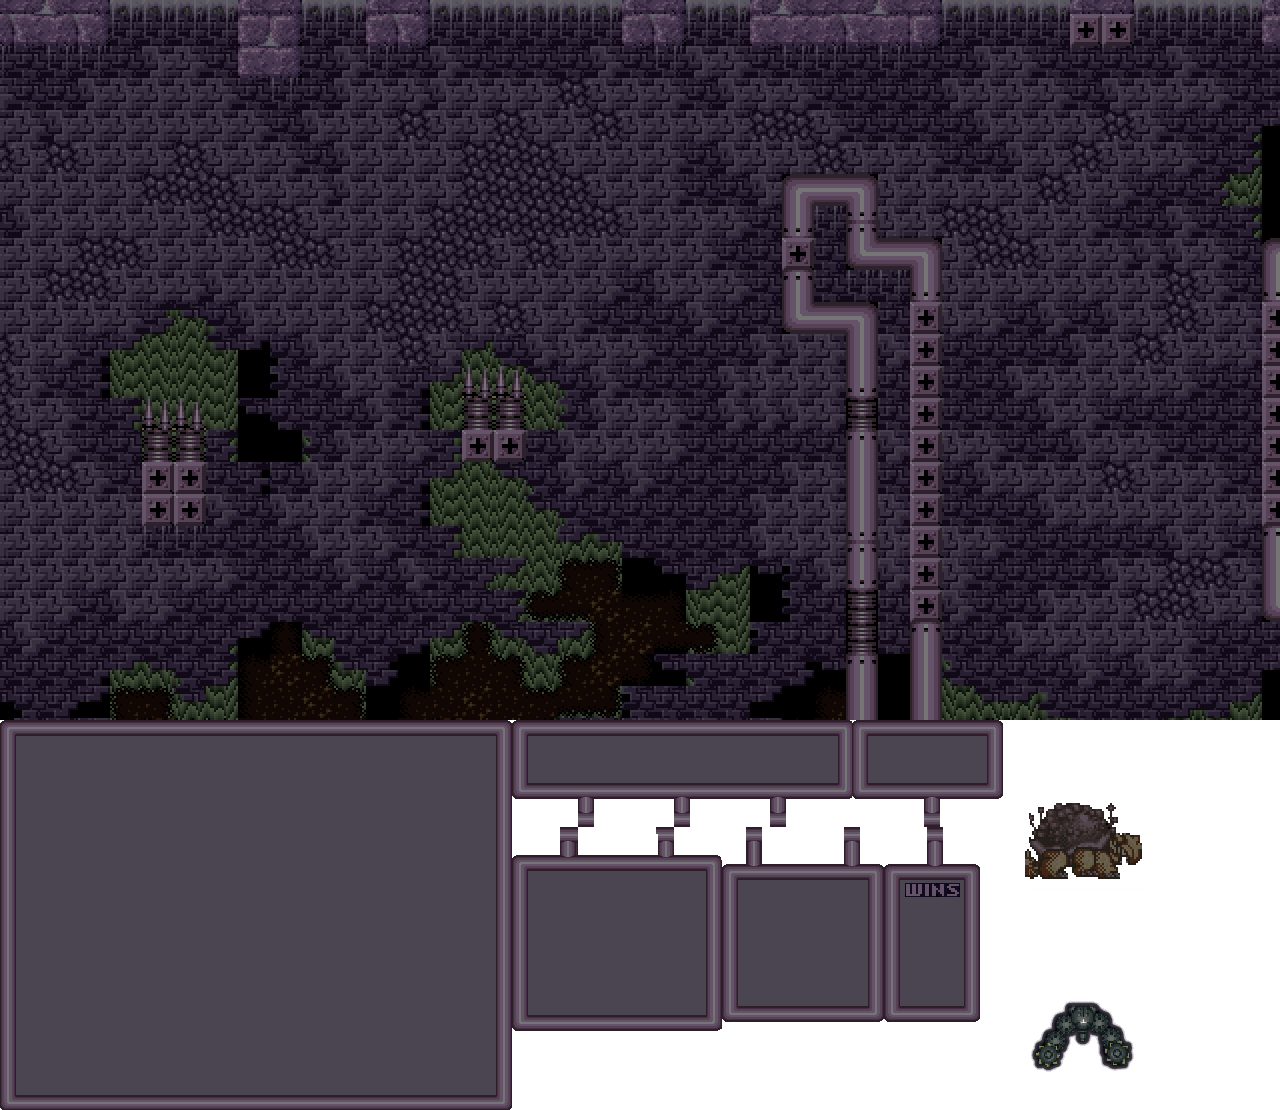
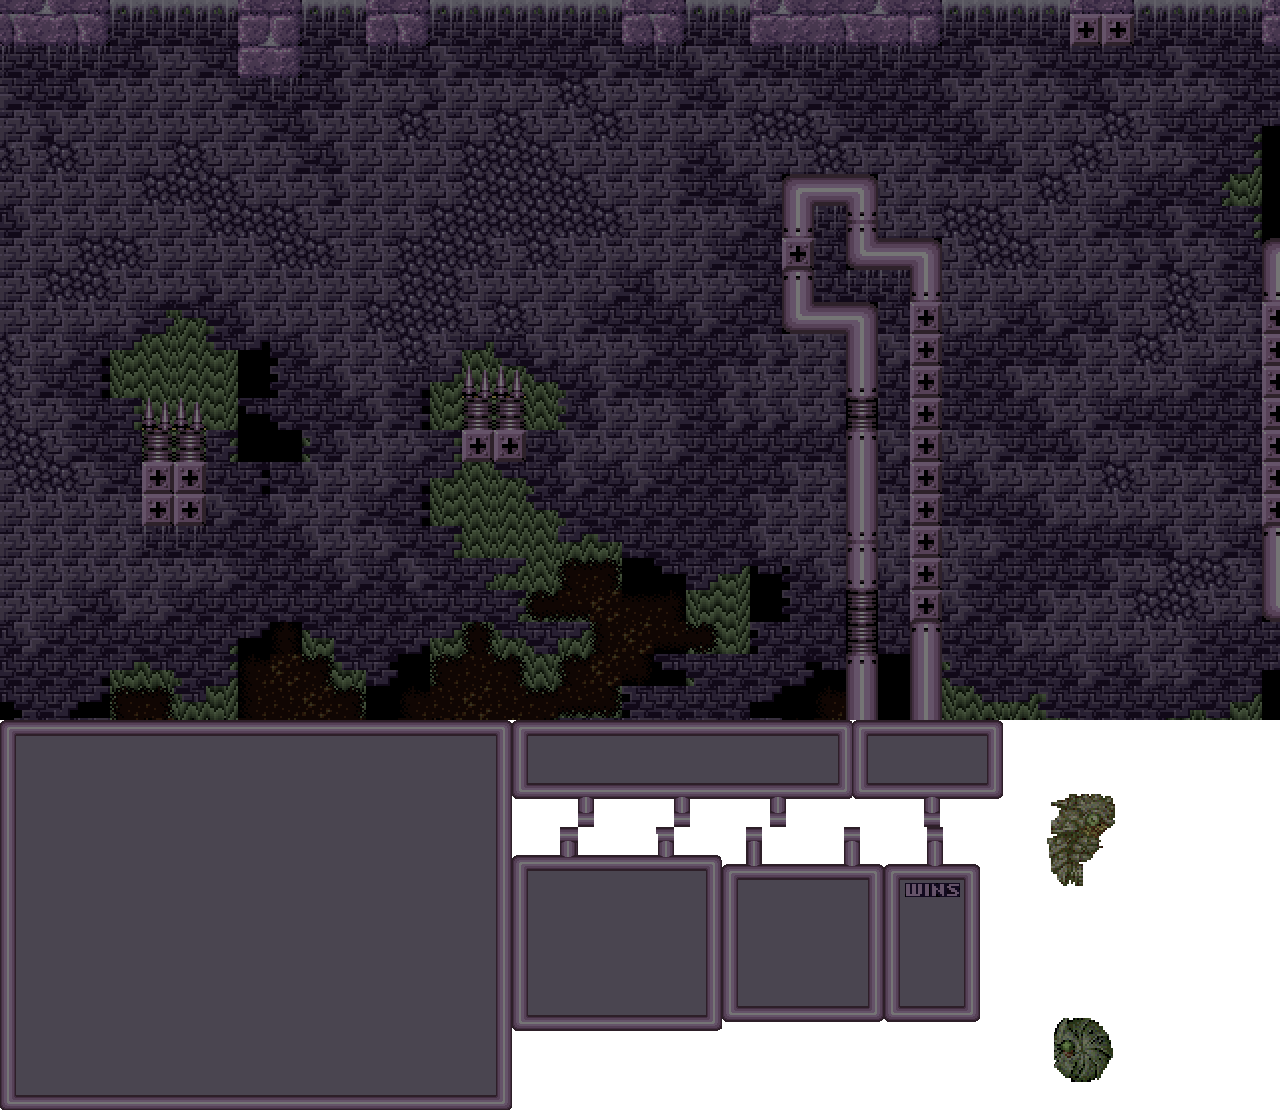
Add new themes to service

Changed region(s): [[0.7812, 0.7045, 0.9062, 0.7964], [0.8125, 0.8883, 0.9062, 0.9802]]

diff --git a/src/models/SliderValues.ts b/src/models/SliderValues.ts
@@ -3,7 +3,7 @@ export type Mark = {
     label: string
 }
 
-export const themeValues: string[] = ['BRINSTAR', 'MARIDIA', 'NORFAIR', 'TOURIAN'];
+export const themeValues: string[] = ['CERES', 'CRATERIA', 'BRINSTAR', 'SHIP', 'MARIDIA', 'NORFAIR', 'TOURIAN'];
 export const logoValues: string[] = ['DEFAULT', 'CHOOZO'];
 export const avatarValues: string[] = ['DEFAULT', 'EMPTY'];
 export const modeValues: string[] = ['FULL', 'FULL COUNTDOWN', 'MAJOR MINOR', 'CHOZO'];
